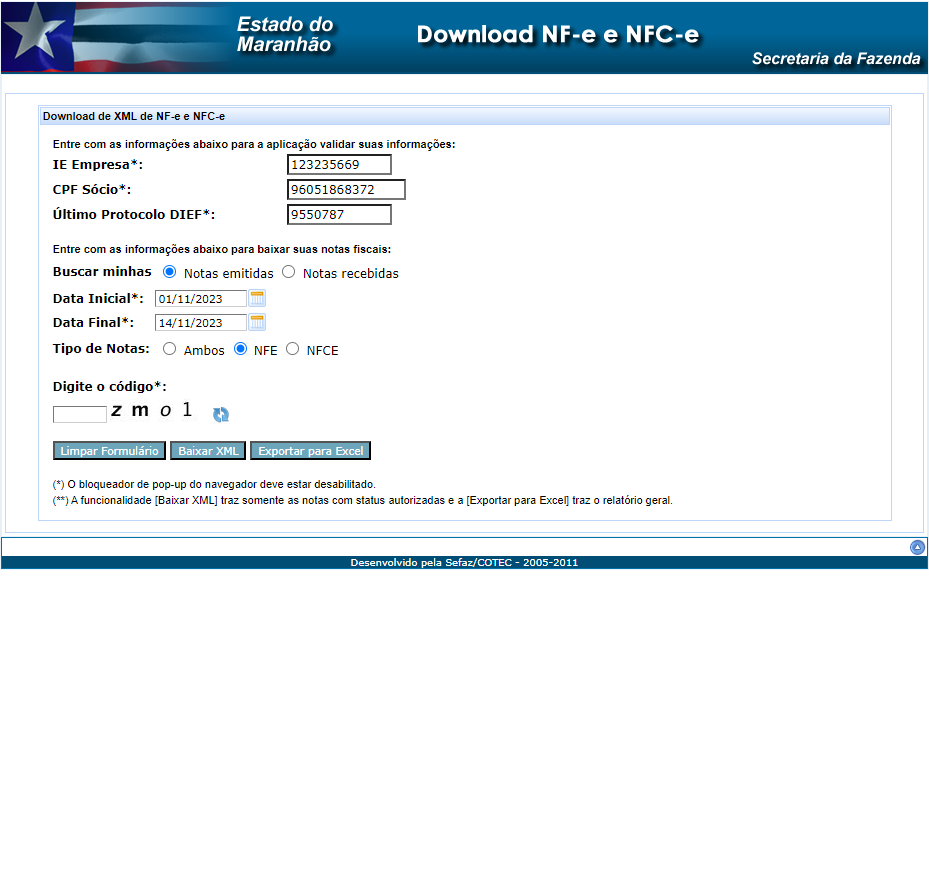
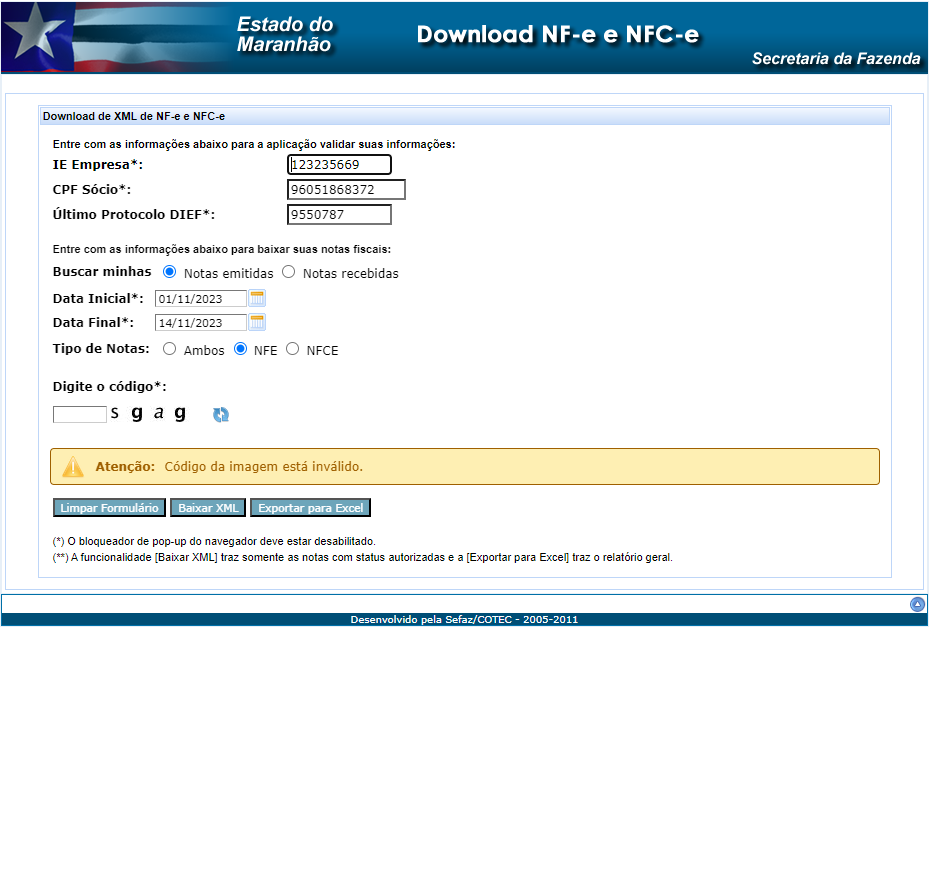
criado funcao ocr

diff --git a/automatizacao-selenium.py b/automatizacao-selenium.py
@@ -10,8 +10,34 @@ from PIL import Image
 import pytesseract
 import time
 
+# Caminho do Tesseract
 pytesseract.pytesseract.tesseract_cmd = r'C:\Program Files\Tesseract-OCR\tesseract.exe'
 
+def ocr_imagem(elemento_imagem):
+    # Obter a localização e as dimensões da imagem
+    localizacao = elemento_imagem.location
+    tamanho = elemento_imagem.size
+
+    # Capturar a área da tela correspondente à imagem
+    driver.save_screenshot("screenshot.png")
+    imagem_screenshot = Image.open("screenshot.png")
+    area_imagem = (
+        localizacao['x'], localizacao['y'],
+        localizacao['x'] + tamanho['width'], localizacao['y'] + tamanho['height']
+    )
+    imagem_cortada = imagem_screenshot.crop(area_imagem)
+    imagem_cortada.save("imagem_cortada.png")
+
+    # Usar o PyTesseract para extrair texto da imagem
+    texto_extraido = pytesseract.image_to_string(Image.open("imagem_cortada.png"))
+    # texto_extraido = texto_extraido.strip()
+    # Remover todos os espaços possíveis (espaços em branco, tabulações, quebras de linha)
+    texto_extraido = texto_extraido.replace(" ", "").replace("\n", "").replace("\t", "")
+
+    # Imprimir o texto extraído
+    print(texto_extraido)
+    
+    return texto_extraido
 
 # Inicializar o driver do Selenium (certifique-se de ter o WebDriver correspondente ao seu navegador instalado)
 # Configurar o webdriver
@@ -32,8 +58,6 @@ driver.implicitly_wait(10)
 iframe = driver.find_element(By.NAME, 'mainFrame')
 driver.switch_to.frame(iframe)
 
-
-
 # Encontrar o elemento IE Empresa
 input_empresa = driver.find_element(By.NAME, 'form1:j_id11')
 input_empresa.send_keys("123235669") 
@@ -49,15 +73,7 @@ time.sleep(1)
 
 # Encontrar o elemento do calendario pop up (data inicial)
 element = driver.find_element(By.ID, 'form1:dtIniPopupButton')
-
-# # Obter as coordenadas do elemento
-# element_location = element.location
-# element_size = element.size
-
-# # Exibir as coordenadas
-# print("Coordenadas X:", element_location['x'])
-# print("Coordenadas Y:", element_location['y'])
-
+# Executa as ações
 element.click()
 time.sleep(1)
 botao_calendario = driver.find_element(By.ID, 'form1:dtIniDayCell2')
@@ -65,7 +81,7 @@ botao_calendario.click()
 
 # Encontrar o elemento do calendario pop up (data final)
 element = driver.find_element(By.ID, 'form1:dtFinPopupButton')
-
+# Executa as ações
 element.click()
 time.sleep(1)
 botao_calendario = driver.find_element(By.ID, 'form1:dtFinDayCell15')
@@ -74,28 +90,7 @@ botao_calendario.click()
 # Localizar o elemento da imagem pelo ID 
 elemento_imagem = driver.find_element(By.ID, "form1:captcha")
 
-# Obter a localização e as dimensões da imagem
-localizacao = elemento_imagem.location
-tamanho = elemento_imagem.size
-
-# Capturar a área da tela correspondente à imagem
-driver.save_screenshot("screenshot.png")
-imagem_screenshot = Image.open("screenshot.png")
-area_imagem = (
-    localizacao['x'], localizacao['y'],
-    localizacao['x'] + tamanho['width'], localizacao['y'] + tamanho['height']
-)
-imagem_cortada = imagem_screenshot.crop(area_imagem)
-imagem_cortada.save("imagem_cortada.png")
-
-# Usar o PyTesseract para extrair texto da imagem
-texto_extraido = pytesseract.image_to_string(Image.open("imagem_cortada.png"))
-# texto_extraido = texto_extraido.strip()
-# Remover todos os espaços possíveis (espaços em branco, tabulações, quebras de linha)
-texto_extraido = texto_extraido.replace(" ", "").replace("\n", "").replace("\t", "")
-
-# Imprimir o texto extraído
-print(texto_extraido)
+texto_extraido = ocr_imagem(elemento_imagem)
 
 # Encontrar o campo para inserir o Captcha
 input_captcha = driver.find_element(By.NAME, 'form1:j_id35')
@@ -108,13 +103,54 @@ time.sleep(2)
 # Encontrar o elemento Baixar XML
 element_baixar_xml = driver.find_element(By.NAME, 'form1:j_id41')
 element_baixar_xml.click()
-time.sleep(3)
+# time.sleep(3)
 
+# Esperar até 10 segundos para ver se o download inicia ou uma mensagem é exibida
+try:
+    # Esperar pelo início do download
+    WebDriverWait(driver, 10).until(EC.presence_of_element_located((By.CLASS_NAME, 'ui-messages-warn-detail')))
+    
+    # Verificar se é uma mensagem de erro de captcha
+    try:
+        captcha_error_message = driver.find_element(By.XPATH, "//span[contains(@class, 'ui-messages-warn-detail') and text()='Código da imagem está inválido.']").text
+        if captcha_error_message:
+            print(f"Erro no captcha: {captcha_error_message}")
+            # Pode tentar novamente aqui antes de sair ou lançar uma exceção
+            # Localizar o elemento da imagem pelo ID 
+            elemento_imagem = driver.find_element(By.ID, "form1:captcha")
+            texto_extraido = ocr_imagem(elemento_imagem)
+            time.sleep(2)
+            # Encontrar o campo para inserir o Captcha
+            input_captcha = driver.find_element(By.NAME, 'form1:j_id35')
+            # Limpar o conteúdo do campo
+            input_captcha.clear()
+            input_captcha.send_keys(texto_extraido) 
+            time.sleep(2)
+            # Encontrar o elemento Baixar XML
+            element_baixar_xml = driver.find_element(By.NAME, 'form1:j_id41')
+            element_baixar_xml.click()
+    except NoSuchElementException:
+        # Se o bloco 'try' foi bem-sucedido, continue aqui para verificar outros elementos
+        pass
+    # Verificar se é uma mensagem de ausência de download
+    try:
+        no_download_message = driver.find_element(By.XPATH, "//span[contains(@class, 'ui-messages-warn-detail') and text()='A consulta foi realizada com sucesso porém não foram encontradas notas.']").text
+        if no_download_message:
+            print(f"Nada para baixar: {no_download_message}")
+            # Pode sair do loop ou fazer outra ação apropriada
+    except NoSuchElementException:
+        pass
+        # Se não houver mensagens relevantes, continue no loop ou faça outra ação apropriada
+except TimeoutException:
+    # Se não houver download iniciado, e não há mensagens de erro ou de ausência de download
+    # presume-se que o download foi iniciado corretamente
+    print("Download iniciado com sucesso!")
 
-# time.sleep(5)
+time.sleep(2)
 # Fechar o navegador
 driver.quit()
 
 
 # <span class="ui-messages-warn-detail">A consulta foi realizada com sucesso porém não foram encontradas notas.</span>
 # <span class="ui-messages-warn-detail">Código da imagem está inválido.</span>
+# <span class="ui-messages-warn-detail">Todos os campos com (*) devem ser informados.</span>
